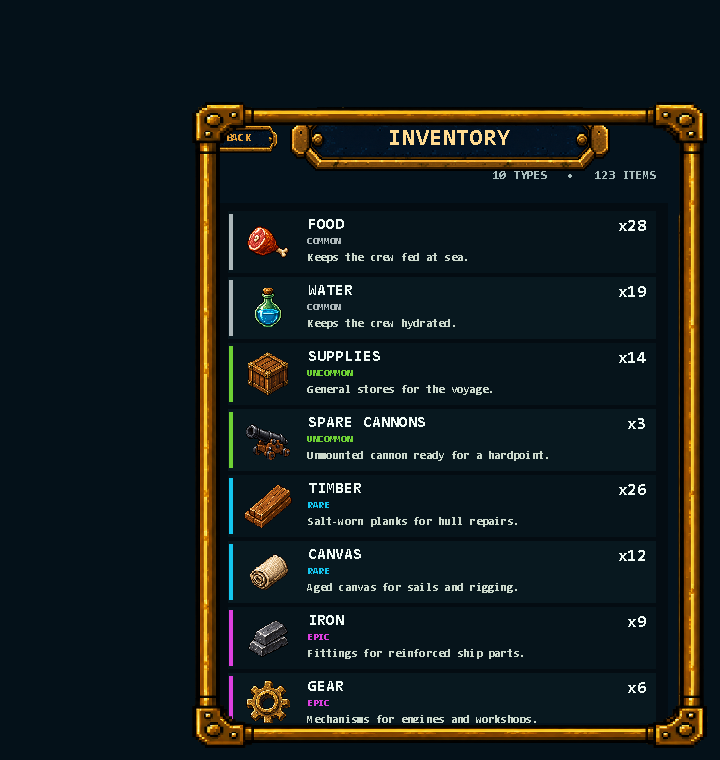
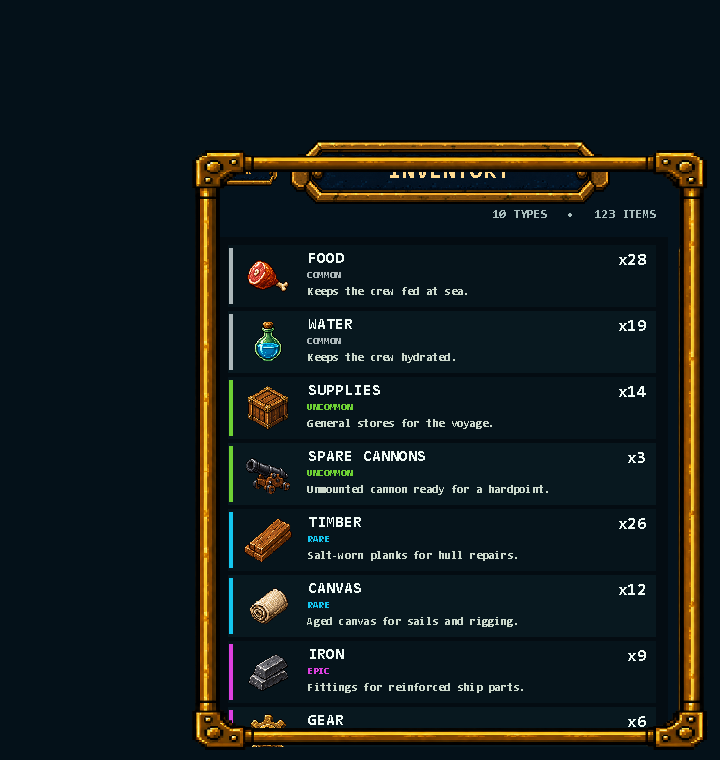
Verify and polish inventory in Unity

diff --git a/Assets/Desktopirates/Scripts/Runtime/InventoryController.cs b/Assets/Desktopirates/Scripts/Runtime/InventoryController.cs
@@ -95,8 +95,8 @@ namespace Desktopirates
 
         private void BuildInventory(RectTransform canvas)
         {
-            // 720x760 reference canvas: x=90 leaves 12 px at the right, y=-425
-            // leaves 12 px at the bottom and a clear gap below the menu circle.
+            // 720x760 reference canvas: the panel leaves 12 px at the right,
+            // 10 px at the bottom, and 8 px between the title and menu circle.
             RectTransform panel = CreateRect("Concept Inventory Manifest", canvas,
                 new Vector2(InventoryManifestModel.PanelCenterX, -InventoryManifestModel.PanelTopOffset),
                 new Vector2(InventoryManifestModel.PanelWidth, InventoryManifestModel.PanelHeight));
@@ -104,21 +104,26 @@ namespace Desktopirates
             Image background = root.AddComponent<Image>();
             background.sprite = null;
             background.color = Color.clear;
-            AddAuthoredPanelFill(panel, new Vector2(488f, 618f));
+            AddAuthoredPanelFill(panel, new Vector2(
+                InventoryManifestModel.PanelWidth - InventoryManifestModel.PanelFillInset * 2f,
+                InventoryManifestModel.PanelHeight - InventoryManifestModel.PanelFillInset * 2f));
             AddPanelFrameOverlay(panel, new Vector2(516f, 646f));
 
-            RectTransform titlePlate = CreateRect("Inventory Title Cartouche", panel, new Vector2(0f, 286f), new Vector2(320f, 64f));
+            RectTransform titlePlate = CreateRect("Inventory Title Cartouche", panel,
+                new Vector2(0f, InventoryManifestModel.TitleCenterY), new Vector2(320f, InventoryManifestModel.TitleHeight));
             RawImage titlePlateImage = titlePlate.gameObject.AddComponent<RawImage>();
             titlePlateImage.texture = UiTextureFactory.LoadInventoryChrome("title");
             titlePlateImage.color = Color.white;
             titlePlateImage.raycastTarget = false;
             Text title = CreateText("Inventory Title", titlePlate, "INVENTORY", 24, Vector2.zero, new Vector2(288f, 48f));
             title.color = new Color(1f, 0.86f, 0.57f, 1f);
-            totalText = CreateText("Inventory Summary", panel, "10 TYPES", 12, new Vector2(58f, 249f), new Vector2(300f, 22f));
+            totalText = CreateText("Inventory Summary", panel, "10 TYPES", 12,
+                new Vector2(58f, InventoryManifestModel.SummaryCenterY), new Vector2(300f, 22f));
             totalText.alignment = TextAnchor.MiddleRight;
             totalText.color = new Color(0.67f, 0.75f, 0.75f, 1f);
 
-            RectTransform backRect = CreateRect("Close Inventory", panel, new Vector2(-211f, 286f), new Vector2(76f, 28f));
+            RectTransform backRect = CreateRect("Close Inventory", panel,
+                new Vector2(-211f, InventoryManifestModel.TitleCenterY), new Vector2(76f, 28f));
             RawImage backImage = backRect.gameObject.AddComponent<RawImage>();
             backImage.texture = UiTextureFactory.LoadInventoryChrome("title");
             backImage.color = new Color(0.78f, 0.78f, 0.78f, 1f);
@@ -128,7 +133,8 @@ namespace Desktopirates
             Text backLabel = CreateText("Close Inventory Label", backRect, "BACK", 11, Vector2.zero, new Vector2(66f, 22f));
             backLabel.color = Brass;
 
-            RectTransform viewport = CreateRect("Inventory Scroll Viewport", panel, new Vector2(-8f, -38f), new Vector2(452f, InventoryManifestModel.ViewportHeight));
+            RectTransform viewport = CreateRect("Inventory Scroll Viewport", panel,
+                new Vector2(-8f, InventoryManifestModel.ViewportCenterY), new Vector2(452f, InventoryManifestModel.ViewportHeight));
             Image viewportImage = viewport.gameObject.AddComponent<Image>();
             // The mask must be fully rectangular. Decorative sprites have transparent
             // corners and would clip the first/last manifest row.
@@ -159,7 +165,8 @@ namespace Desktopirates
             scroll.scrollSensitivity = 38f;
             scroll.inertia = true;
             scroll.decelerationRate = 0.12f;
-            RectTransform scrollbarRect = CreateRect("Inventory Brass Scrollbar", panel, new Vector2(232f, -38f), new Vector2(10f, InventoryManifestModel.ViewportHeight));
+            RectTransform scrollbarRect = CreateRect("Inventory Brass Scrollbar", panel,
+                new Vector2(232f, InventoryManifestModel.ViewportCenterY), new Vector2(10f, InventoryManifestModel.ViewportHeight));
             RawImage scrollbarTrack = scrollbarRect.gameObject.AddComponent<RawImage>(); scrollbarTrack.texture = UiTextureFactory.LoadInventoryChrome("scrollbar_track"); scrollbarTrack.color = Color.white; scrollbarTrack.raycastTarget = true;
             Scrollbar scrollbar = scrollbarRect.gameObject.AddComponent<Scrollbar>();
             RectTransform slidingArea = CreateRect("Cargo Scrollbar Sliding Area", scrollbarRect, Vector2.zero, Vector2.zero);

diff --git a/Assets/Desktopirates/Tests/EditMode/ArtPipelineTests.cs b/Assets/Desktopirates/Tests/EditMode/ArtPipelineTests.cs
@@ -161,6 +161,15 @@ namespace Desktopirates.Tests
             Assert.That(top, Is.GreaterThanOrEqualTo(0f));
             Assert.That(bottom, Is.LessThanOrEqualTo(InventoryManifestModel.ReferenceCanvasHeight));
 
+            float titleTop = InventoryManifestModel.PanelTopOffset - InventoryManifestModel.TitleCenterY - InventoryManifestModel.TitleHeight * 0.5f;
+            float titleBottom = titleTop + InventoryManifestModel.TitleHeight;
+            float summaryTop = InventoryManifestModel.PanelTopOffset - InventoryManifestModel.SummaryCenterY - 11f;
+            float summaryBottom = summaryTop + 22f;
+            float viewportTop = InventoryManifestModel.PanelTopOffset - InventoryManifestModel.ViewportCenterY - InventoryManifestModel.ViewportHeight * 0.5f;
+            Assert.That(titleTop - InventoryManifestModel.MenuCircleBottom, Is.GreaterThanOrEqualTo(8f));
+            Assert.That(summaryTop, Is.GreaterThanOrEqualTo(titleBottom));
+            Assert.That(viewportTop - summaryBottom, Is.GreaterThanOrEqualTo(8f));
+
             float iconRight = InventoryManifestModel.IconCenterX + InventoryManifestModel.IconSize * 0.5f;
             float textLeft = InventoryManifestModel.TextCenterX - InventoryManifestModel.TextWidth * 0.5f;
             float textRight = InventoryManifestModel.TextCenterX + InventoryManifestModel.TextWidth * 0.5f;

diff --git a/Assets/Desktopirates/Scripts/Runtime/InventoryManifestModel.cs b/Assets/Desktopirates/Scripts/Runtime/InventoryManifestModel.cs
@@ -31,13 +31,19 @@ namespace Desktopirates
         public const int EntryCount = 10;
         public const float RowHeight = 62f;
         public const float RowStride = 66f;
-        public const float ViewportHeight = 520f;
+        public const float ViewportHeight = 510f;
         public const float ReferenceCanvasWidth = 720f;
         public const float ReferenceCanvasHeight = 760f;
         public const float PanelWidth = 516f;
-        public const float PanelHeight = 646f;
+        public const float PanelHeight = 600f;
         public const float PanelCenterX = 90f;
-        public const float PanelTopOffset = 425f;
+        public const float PanelTopOffset = 450f;
+        public const float PanelFillInset = 14f;
+        public const float MenuCircleBottom = 132f;
+        public const float TitleCenterY = 278f;
+        public const float TitleHeight = 64f;
+        public const float SummaryCenterY = 235f;
+        public const float ViewportCenterY = -42f;
         public const float IconCenterX = -174f;
         public const float IconSize = 54f;
         public const float TextCenterX = -1f;

diff --git a/Docs/InventoryV04TestReport.md b/Docs/InventoryV04TestReport.md
@@ -7,13 +7,18 @@ Date: 2026-08-21
 - Isolated ImageGen target: `ArtSource/Generated/UI/v04-inventory/inventory_reference_v04.png`
 - Exact 720x760 layout proof rendered from the shipped textures and controller geometry: `outputs/inventory-v04-layout-proof.png`
 - Side-by-side reference comparison: `outputs/inventory-v04-reference-comparison.png`
+- Unity Windows runtime capture: `outputs/RuntimeCapture-Inventory-v04-final.png`
+- Concept-versus-engine comparison: `outputs/inventory-v04-engine-reference-comparison.png`
 
-The comparison checks the intended hierarchy: one tall brass perimeter, dark navy list surface, title cartouche, ten uniform data-backed rows, frameless icons, left rarity strips, right-aligned quantities, and a permanent brass scrollbar. The computed panel bounds are x=192..708 and y=102..748 on the 720x760 reference canvas, leaving 12 px at the right and bottom.
+The comparison checks the intended hierarchy: one tall brass perimeter, dark navy list surface, title cartouche, ten uniform data-backed rows, frameless icons, left rarity strips, right-aligned quantities, and a permanent brass scrollbar. The final computed panel bounds are x=192..708 and y=150..750 on the 720x760 reference canvas. This leaves 12 px at the right, 10 px at the bottom, and an 8 px minimum gap below the menu circle.
 
 ## Automated checks
 
 - Runtime assembly compiled with Unity 6000.1.6f1 Roslyn response files: pass.
 - EditMode test assembly compiled with Unity 6000.1.6f1 Roslyn response files: pass.
+- Unity 6000.1.6f1 EditMode Test Runner: 112/112 passed, 0 failed.
+- Windows player build: succeeded, 122,420,203 bytes.
+- `--inventory-preview` runtime launch and desktop capture: pass.
 - Fourteen runtime PNGs each have a matching `.meta`: pass.
 - Fourteen importer GUIDs are unique: pass.
 - Ten item textures are 256x256 RGBA with transparent corners: pass.
@@ -23,4 +28,4 @@ The comparison checks the intended hierarchy: one tall brass perimeter, dark nav
 
 ## Unity runner status
 
-The Unity Test Runner and runtime screenshot step could not start on this machine because Unity reported `No valid Unity Editor license found. Please activate your license.` No test failure or compiler error was reported before that licensing gate. Once the editor license is activated, run the EditMode suite and launch with `--inventory-preview` to replace the deterministic layout proof with an engine-rendered screenshot.
+The first batch launch happened while Unity Hub was not running. Editor 6000.1.6f1 therefore launched its bundled Licensing Client 1.16.2 without an access token; the stored legacy machine binding also differed from the current network adapter identity. Starting Unity Hub 3.12.1 launched Licensing Client 1.17.0, refreshed `UnityEntitlementLicense.xml`, resolved the Personal entitlement, and restored the editor license. The final Test Runner, player build, and runtime screenshot all completed successfully.
